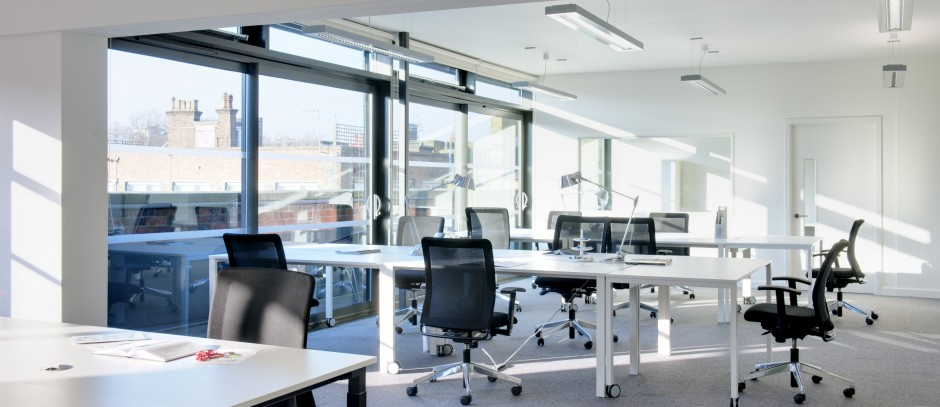
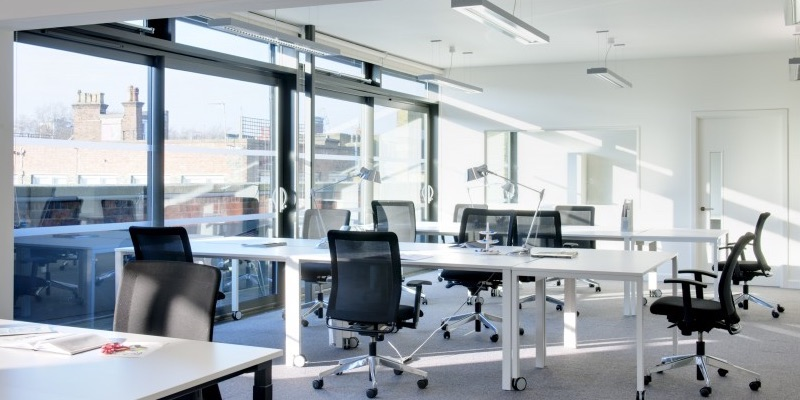
compress and corp image, remove useless link

diff --git a/index.html b/index.html
@@ -201,7 +201,7 @@
 							<div class="6u">
 							
 								<section>
-									<a href="#" class="image feature"><img src="images/pic01.jpg" alt="" /></a>
+									<div class="image feature"><img src="images/pic01.jpg" alt="" /></div>
 									<header>
 										<h3>High Quality Connections</h3>
 									</header>
@@ -212,7 +212,7 @@
 							<div class="6u">
 							
 								<section>
-									<a href="#" class="image feature"><img src="images/pic02.jpg" alt="" /></a>
+									<div class="image feature"><img src="images/pic02.jpg" alt="" /></div>
 									<header>
 										<h3>Tech Interview</h3>
 									</header>
@@ -227,7 +227,7 @@
 							<div class="6u">
 							
 								<section>
-									<a href="#" class="image feature"><img src="images/pic03.jpg" alt="" /></a>
+									<div class="image feature"><img src="images/pic03.jpg" alt="" /></div>
 									<header>
 										<h3>Culture Building</h3>
 									</header>
@@ -238,7 +238,9 @@
 							<div class="6u">
 							
 								<section>
-									<a href="#" class="image feature"><img src="images/pic04.jpg" alt="" /></a>
+									<div class="image feature">
+										<img src="images/pic04.jpg" alt="" />
+									</div>
 									<header>
 										<h3>Business Operation</h3>
 									</header>
